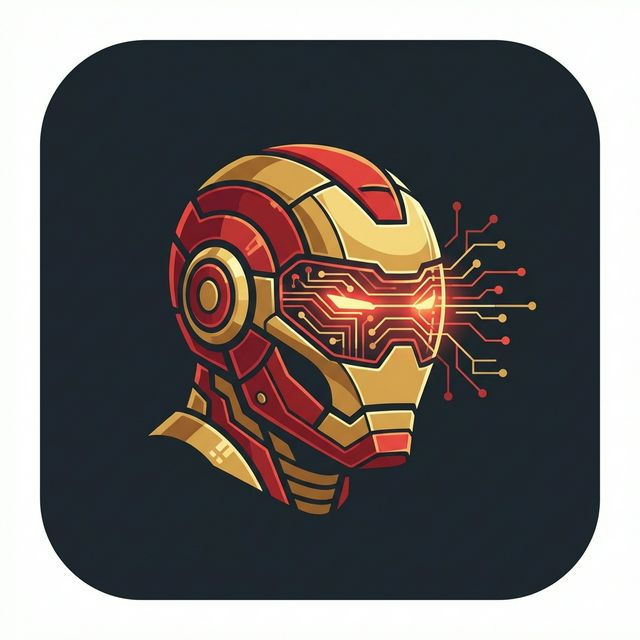
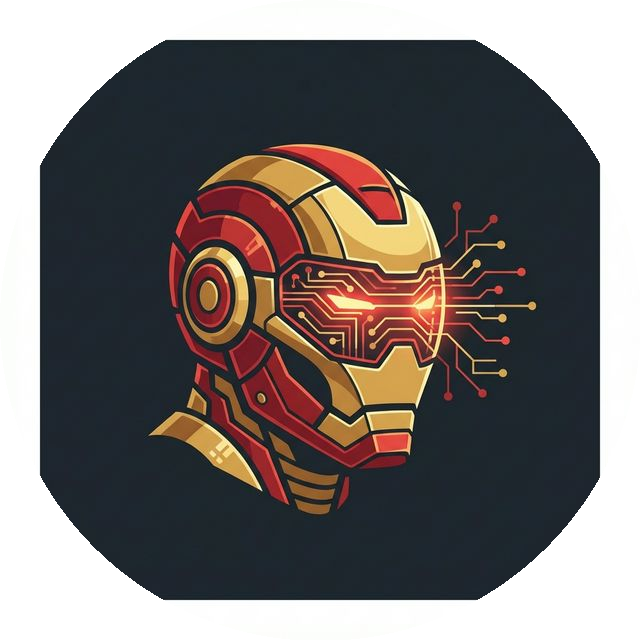
feat: Add initial Gemini agent for Home Assistant, including HA API client and file management tools.

diff --git a/gemini_agent/agent.py b/gemini_agent/agent.py
@@ -115,21 +115,22 @@ class HA:
                 
                 # Normalize keyword: lowercase + remove accents
                 def normalize(s):
+                    if not isinstance(s, str):
+                        s = str(s)
                     return remove_accents(s.lower())
 
                 terms = normalize(keyword).split()
                 
                 for entity in all_states:
                     eid = normalize(entity.get('entity_id', ''))
-                    friendly = normalize(entity.get('attributes', {}).get('friendly_name', ''))
+                    attrs = entity.get('attributes', {})
+                    friendly = normalize(attrs.get('friendly_name', ''))
                     domain = eid.split('.')[0]
-                    device_class = normalize(entity.get('attributes', {}).get('device_class', ''))
                     
-                    # Search text includes ID, Name, Domain, and Device Class
-                    # We also add 'thermostat' alias for climate domain
-                    aliases = "thermostat temperature" if domain == "climate" else ""
+                    # Gather all string-like attributes for deep searching (includes aliases, device_class, etc.)
+                    attr_values = " ".join([normalize(v) for k, v in attrs.items() if isinstance(v, (str, int, float, list))])
                     
-                    search_text = f"{eid} {friendly} {domain} {device_class} {aliases}"
+                    search_text = f"{eid} {friendly} {domain} {attr_values}"
                     
                     # Match if ALL terms are present
                     if all(term in search_text for term in terms):
@@ -258,11 +259,11 @@ class GeminiAgent:
                 function_declarations=[
                      types.FunctionDeclaration(
                         name="find_entities",
-                        description="[FALLBACK ONLY] Search for entities. CRITICAL: Home Assistant entity IDs are usually in English. If the user asks in Greek (e.g. 'θέρμανση'), YOU MUST TRANSLATE the keyword to English (e.g. 'heating') before searching! Use a SINGLE broad keyword.",
+                        description="[FALLBACK ONLY] Search for entities. Note: Entities might be named in Greek, Greeklish, or English. If your first search fails, try translating your keyword or using a broad term (e.g. search 'thermansi', then 'θέρμανση', then 'heating'). The search looks deeply into entity IDs, names, device classes, and aliases.",
                         parameters=types.Schema(
                             type=types.Type.OBJECT,
                             properties={
-                                "keyword": types.Schema(type=types.Type.STRING, description="A single ENGLISH keyword (e.g. 'heating', 'cost', 'car')"),
+                                "keyword": types.Schema(type=types.Type.STRING, description="A single broad keyword (e.g. 'heating', 'cost', 'car', 'θερμοσίφωνας')"),
                             },
                             required=["keyword"]
                         )

diff --git a/gemini_agent/crop_logo.py b/gemini_agent/crop_logo.py
@@ -1,0 +1,23 @@
+from PIL import Image, ImageDraw
+
+def process_icon(img_path):
+    # Open image and ensure it has an alpha channel
+    img = Image.open(img_path).convert("RGBA")
+    
+    # Create a circular mask
+    mask = Image.new('L', img.size, 0)
+    draw = ImageDraw.Draw(mask)
+    draw.ellipse((0, 0, img.size[0], img.size[1]), fill=255)
+    
+    # Apply the mask to the image's alpha channel
+    result = img.copy()
+    result.putalpha(mask)
+    result.save(img_path, format="PNG")
+    print(f"Processed: {img_path}")
+
+try:
+    process_icon(r"c:\Dev\ha-ai-middleware\gemini_agent\icon.png")
+    process_icon(r"c:\Dev\ha-ai-middleware\gemini_agent\logo.png")
+    print("Icons successfully made round with transparent corners.")
+except Exception as e:
+    print(f"Error: {e}")
